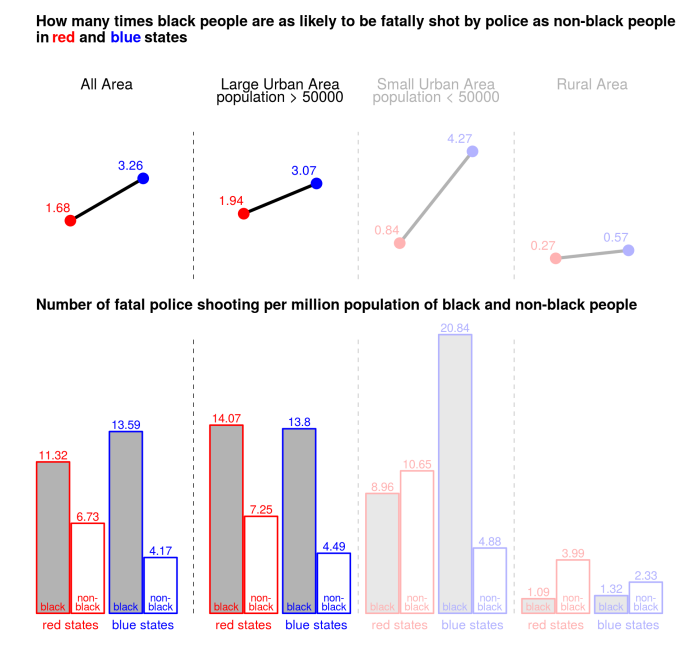
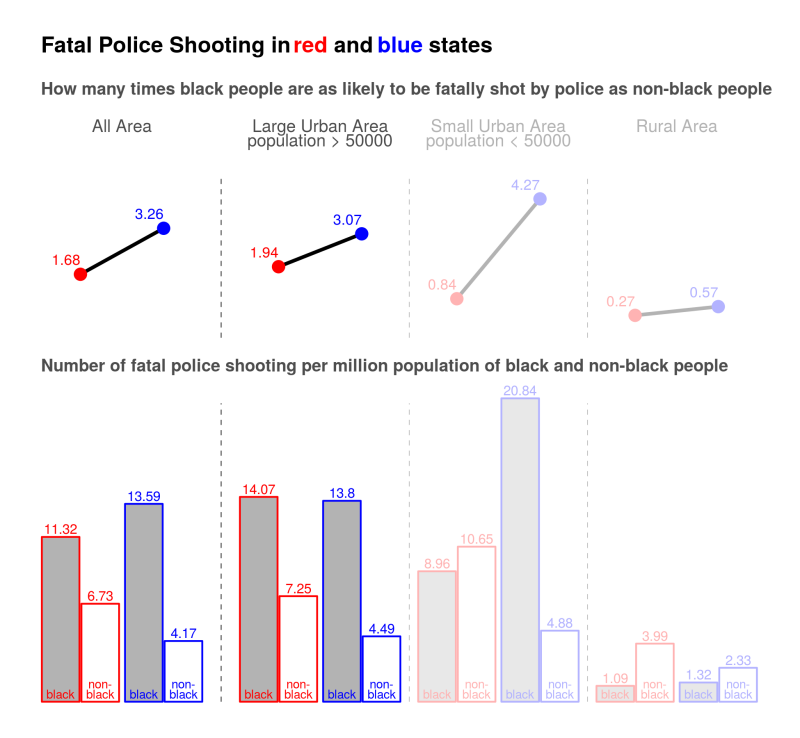
temp

diff --git a/README.md b/README.md
@@ -11,17 +11,24 @@ Surprisingly, the analysis of the Washington Post shooting data shows that the d
 
 ## Disparity in red states and blue states as two groups
 
-We divide the 50 states and DC into two groups, blue states and red states, using the 2012 presidential election data. Obama is a black people; therefore this data better represents racial issue than the most 2016 election. A state is defined as a blue state if 50% or more voted for Obama, as a red state otherwise. 
+We divide the 50 states and DC into two groups, blue states and red states, using the 2012 presidential election data. As Obama is a black people, this data better represents racial issues than the most recent 2016 election data. A state is a blue state if 50% or more voted for Obama, a red state otherwise. We use 50% vote as the criteria instead of Obama winning because all other candidates are non-blacks. 
 
-The disparity and number of fatal police shooting per million population in the two groups are calcualted using the Washington Post database. 
+The disparity ratio and number of fatal police shooting per million population in the two groups are calcualted using the Washington Post database. The disparity ratio is defined as the ratio of the number of the fatal police shooting per million population of black people to that of non-black people.
 
-The disparity is much higher in blue state than in red state. In red states, black people are <span style="color:red">**1.68**</span> times as likely to be killed by police as non-black people. This disparity ratio doubles to <span style="color:blue">**3.26**</span> in blue states. The larger disparity in blue states is partly due to black people is more likely to be killed (13.59 per million black popultion in blue state to 11.32 in red state), but mainly accounted for by less likely non-black people being fatally shot per million population by police. In red states, 6.73 out of mone million non-black people are killed. This number is only 4.17 in blue states. 
+The disparity ratio is much higher in blue state than in red state. In red states, black people are <span style="color:red">**1.68**</span> times as likely to be killed by police as non-black people. The disparity ratio doubles to <span style="color:blue">**3.26**</span> in blue states. The larger disparity in blue states is partly due to black people is more likely to be killed, but mainly accounted for by less likely non-black people being fatally shot per million population by police. The likelyhood of blacks being killed is 13.59 per million popultion in blue state, 20% larger than that in red state (11.32 per million). The likelyhood of non-black people being killed is 6.73 per million in red states, 61% higher than the 4.17 per million in blue states. 
 
-In large urban area with more than 50000 population, which accounts for 92% of black people killed, the disparity ratio is <span style="color:red">**1.94**</span> in red states and <span style="color:blue">**3.07**</span> in blue states.
+One argues that higher disparity in blue states could be result of higher urbanization rate in blue states. Generally speaking, black people tend to live in large urban area in blue states where police are more likely to shoot. A fair comparison should compare the disparity in large urban area in red and blue states.
+
+In large urban area with more than 50000 population, which accounts for 92% of black people killed, the disparity ratio is <span style="color:red">**1.94**</span> in red states and <span style="color:blue">**3.07**</span> in blue states. Almost all the difference is attributed to the fewer non-black people being killed in blue states (4.49 per million) than in red states (7.25 per million). Black people are equal likely to be killed in both blue states and red states in large urban area. 
 
 <img src="figures/geo_disparity_vertical.png" alt="disparity ratio" style="width: 600px;"/>
 
-## Disparity in individual states
+## Disparity in individual states (large urban area only, move all state to appendix)
+After treating red and blues states in two groups, let's look the disparity in individual states. We will pay attention to significant states with more than 300,000 black population, or with more than 3 black people killed by police. 
+
+(check all numbers after database update) The following figure clearly shows larger disparity in blue states. The bluer a state is, the larger the disparity. While Obama got 90% vote in DC, all 8 killed by police are blacks. (all disparity ratios are capped at 10 to be plot in the figure) Among the traditional blue states, Illinois tops the list where the blacks are 7.6 times as likely as non-blacks to be killed. Massachusetts is 5.2 times, and New York 5.3 time. California is the best but still 3.0 times, higher than the national average, which is 2.2 times (use large urban average). On the other hand, all those below the national average are red states, including Texas, Alabama, Mississippi, and Tennessee. In particular, the blacks are only 61% as likely as non-blacks to be killed by police in Mississippi.
+
+<img src="figures/disparity_state_all_area.png" alt="disparity ratio all area" style="width: 800px;"/>
 
 
 ## Data preparation
